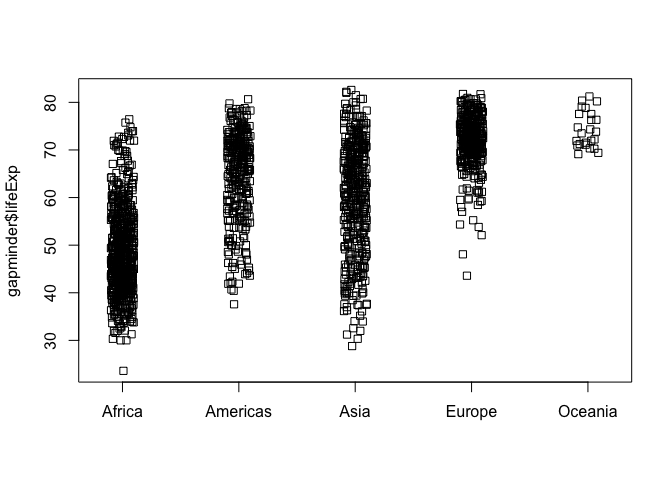
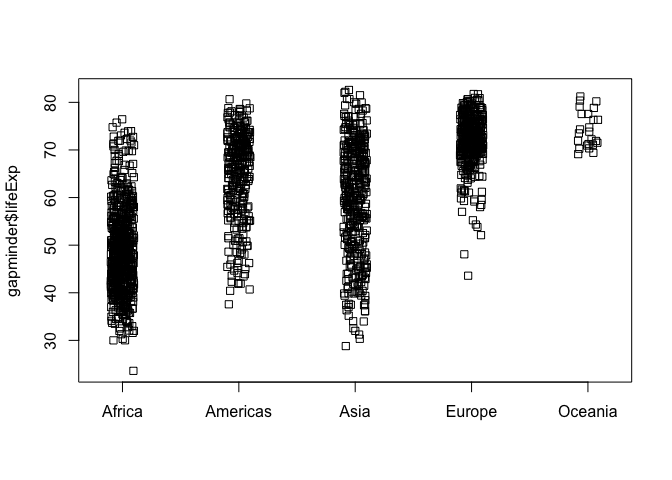
finished rmd

diff --git a/hw02.md b/hw02.md
@@ -238,10 +238,150 @@ From this scatterplot we can see that GDP per capita is increasing (with the exc
 
 ##### Plotting one quantitative variable
 
-##### Boxplot (one quantitative, one categorical variable)
+``` r
+ggplot(gapminder, aes(x=lifeExp)) + geom_density()
+```
+
+![](hw02_files/figure-markdown_github-ascii_identifiers/unnamed-chunk-14-1.png)
+
+Density plot, which is a smoothed version of the above histogram!
+
+##### Stripchart (one quantitative, one categorical variable)
+
+``` r
+stripchart(gapminder$lifeExp ~ gapminder$continent, vertical=TRUE, method="jitter", jitter=0.1)
+```
+
+![](hw02_files/figure-markdown_github-ascii_identifiers/unnamed-chunk-15-1.png)
+
+Made a stripchart instead of a boxplot since I couldn't get the variable names to fit! But as we saw in class, sometimes this data display can be more informative since it includes all data points.
 
 #### Using filter( ), select( ) and %&gt;%
 
-Use filter( ) to create data subsets that you want to plot
+``` r
+myplot <- gapminder %>%
+  filter(country=="Canada") %>%
+  select(year, pop)
+plot(myplot, xlab = "year", ylab = "population", col = "purple", pch = 16)
+```
 
-Practice piping together filter( ) and select( ); %&gt;% in ggplot
+![](hw02_files/figure-markdown_github-ascii_identifiers/unnamed-chunk-16-1.png)
+
+Utilized filter( ), select( ) and %&gt;% to create a plot showing how Canada's population is increasing over time!
+
+``` r
+gapminder %>%
+  filter(continent=="Oceania") %>% 
+  select(country, year, gdpPercap) %>% 
+  ggplot(aes(x=year, y=gdpPercap)) %>% 
+  + geom_point(aes(color=country))
+```
+
+![](hw02_files/figure-markdown_github-ascii_identifiers/unnamed-chunk-17-1.png)
+
+Fancy graph made by piping into ggplot and using many features!
+
+#### Even more!
+
+``` r
+filter(gapminder, country == c("Rwanda", "Afghanistan"))
+```
+
+    ## # A tibble: 12 x 6
+    ##        country continent  year lifeExp      pop gdpPercap
+    ##         <fctr>    <fctr> <int>   <dbl>    <int>     <dbl>
+    ##  1 Afghanistan      Asia  1957  30.332  9240934  820.8530
+    ##  2 Afghanistan      Asia  1967  34.020 11537966  836.1971
+    ##  3 Afghanistan      Asia  1977  38.438 14880372  786.1134
+    ##  4 Afghanistan      Asia  1987  40.822 13867957  852.3959
+    ##  5 Afghanistan      Asia  1997  41.763 22227415  635.3414
+    ##  6 Afghanistan      Asia  2007  43.828 31889923  974.5803
+    ##  7      Rwanda    Africa  1952  40.000  2534927  493.3239
+    ##  8      Rwanda    Africa  1962  43.000  3051242  597.4731
+    ##  9      Rwanda    Africa  1972  44.600  3992121  590.5807
+    ## 10      Rwanda    Africa  1982  46.218  5507565  881.5706
+    ## 11      Rwanda    Africa  1992  23.599  7290203  737.0686
+    ## 12      Rwanda    Africa  2002  43.413  7852401  785.6538
+
+The code did not succeed in showing all values for Rwanda and Afghanistan but rather only half the data because no year is repeated, as it should be, showing all years for each region
+
+``` r
+filter(gapminder, country == "Rwanda" | country == "Afghanistan")
+```
+
+    ## # A tibble: 24 x 6
+    ##        country continent  year lifeExp      pop gdpPercap
+    ##         <fctr>    <fctr> <int>   <dbl>    <int>     <dbl>
+    ##  1 Afghanistan      Asia  1952  28.801  8425333  779.4453
+    ##  2 Afghanistan      Asia  1957  30.332  9240934  820.8530
+    ##  3 Afghanistan      Asia  1962  31.997 10267083  853.1007
+    ##  4 Afghanistan      Asia  1967  34.020 11537966  836.1971
+    ##  5 Afghanistan      Asia  1972  36.088 13079460  739.9811
+    ##  6 Afghanistan      Asia  1977  38.438 14880372  786.1134
+    ##  7 Afghanistan      Asia  1982  39.854 12881816  978.0114
+    ##  8 Afghanistan      Asia  1987  40.822 13867957  852.3959
+    ##  9 Afghanistan      Asia  1992  41.674 16317921  649.3414
+    ## 10 Afghanistan      Asia  1997  41.763 22227415  635.3414
+    ## # ... with 14 more rows
+
+This is the proper way to do it to obtain all 24 rows of data!
+
+``` r
+knitr::kable(filter(gapminder, country == "Rwanda" | country == "Afghanistan"))
+```
+
+| country     | continent |  year|  lifeExp|       pop|  gdpPercap|
+|:------------|:----------|-----:|--------:|---------:|----------:|
+| Afghanistan | Asia      |  1952|   28.801|   8425333|   779.4453|
+| Afghanistan | Asia      |  1957|   30.332|   9240934|   820.8530|
+| Afghanistan | Asia      |  1962|   31.997|  10267083|   853.1007|
+| Afghanistan | Asia      |  1967|   34.020|  11537966|   836.1971|
+| Afghanistan | Asia      |  1972|   36.088|  13079460|   739.9811|
+| Afghanistan | Asia      |  1977|   38.438|  14880372|   786.1134|
+| Afghanistan | Asia      |  1982|   39.854|  12881816|   978.0114|
+| Afghanistan | Asia      |  1987|   40.822|  13867957|   852.3959|
+| Afghanistan | Asia      |  1992|   41.674|  16317921|   649.3414|
+| Afghanistan | Asia      |  1997|   41.763|  22227415|   635.3414|
+| Afghanistan | Asia      |  2002|   42.129|  25268405|   726.7341|
+| Afghanistan | Asia      |  2007|   43.828|  31889923|   974.5803|
+| Rwanda      | Africa    |  1952|   40.000|   2534927|   493.3239|
+| Rwanda      | Africa    |  1957|   41.500|   2822082|   540.2894|
+| Rwanda      | Africa    |  1962|   43.000|   3051242|   597.4731|
+| Rwanda      | Africa    |  1967|   44.100|   3451079|   510.9637|
+| Rwanda      | Africa    |  1972|   44.600|   3992121|   590.5807|
+| Rwanda      | Africa    |  1977|   45.000|   4657072|   670.0806|
+| Rwanda      | Africa    |  1982|   46.218|   5507565|   881.5706|
+| Rwanda      | Africa    |  1987|   44.020|   6349365|   847.9912|
+| Rwanda      | Africa    |  1992|   23.599|   7290203|   737.0686|
+| Rwanda      | Africa    |  1997|   36.087|   7212583|   589.9445|
+| Rwanda      | Africa    |  2002|   43.413|   7852401|   785.6538|
+| Rwanda      | Africa    |  2007|   46.242|   8860588|   863.0885|
+
+Presenting the table in a nicer way using knitr::kable( )
+
+``` r
+gapminder %>%
+  filter(year == 1992) %>%
+  mutate(logGdp = log10(gdpPercap)) %>% 
+  select(continent, lifeExp, logGdp) %>% 
+  ggplot(aes(x=logGdp, y=lifeExp)) %>% 
+  +geom_point(aes(color=continent))
+```
+
+![](hw02_files/figure-markdown_github-ascii_identifiers/unnamed-chunk-21-1.png)
+
+Another, more detailed ggplot graph using an extra dplyr feature.
+
+``` r
+gapminder %>%
+  group_by(continent) %>% 
+  select(continent, year, pop, gdpPercap) %>% 
+  mutate(popgain = pop - first(pop)) %>% 
+  filter(continent != "Asia") %>% 
+  ggplot(aes(x=gdpPercap, y=popgain)) %>% 
+  +geom_point(aes(color=continent))
+```
+
+![](hw02_files/figure-markdown_github-ascii_identifiers/unnamed-chunk-22-1.png)
+
+More experimenting with graphs to investigate groupby( ) and to properly use the mutate( ) and first( ) dplyr functions. The graph shows sometimes population increases without gdp per capita (Africa) or vice versa that gdp per capita can grow without population increasing (Europe) or both can increase simultaneously (Americas) and Asia was not included since the scale was a lot larger and it lost the detail of the other four continents.
